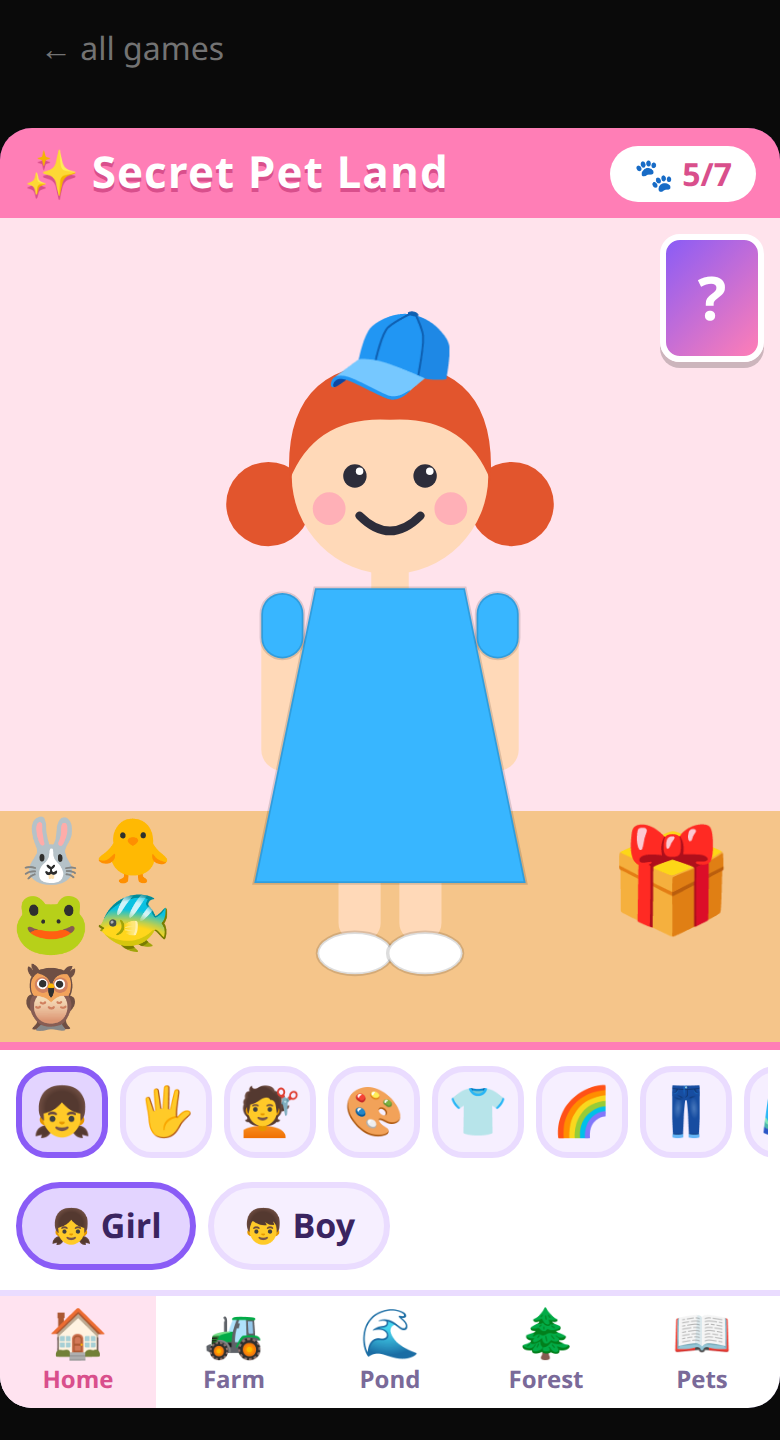
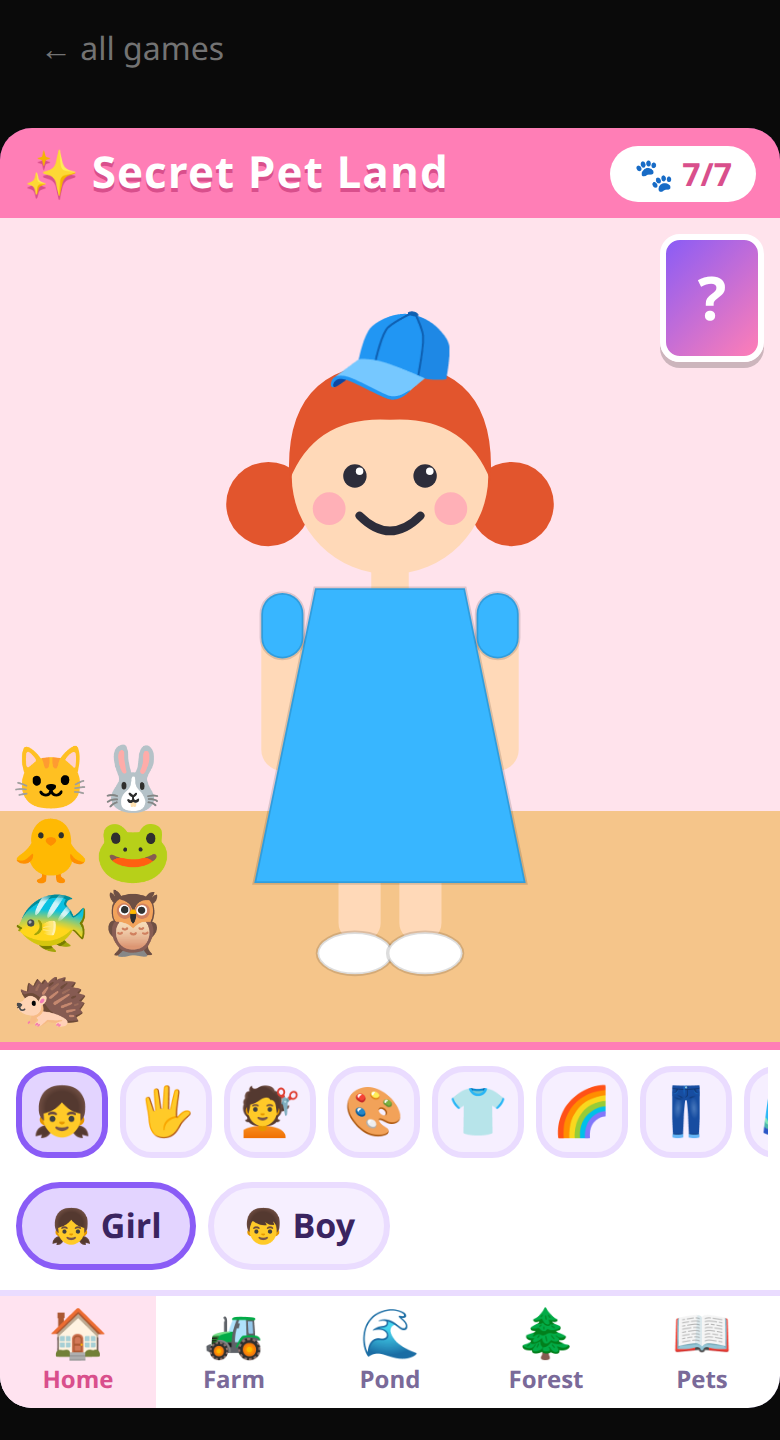
fix(secret-pet-land): start over keeps the outfit; rock wobbles each tap

Changed region(s): [[0.0, 0.5, 0.2154, 0.7188], [0.7692, 0.5625, 0.9538, 0.6562], [0.8615, 0.0938, 0.8923, 0.125]]

diff --git a/src/components/secret-pet-land/forest.tsx b/src/components/secret-pet-land/forest.tsx
@@ -9,7 +9,7 @@ function Tree({ world, onTap }: SceneProps) {
   const owl = hasPet(world, 'owl');
   return (
     <div className="pointer-events-none absolute top-[10%] left-[8%] h-[66%] w-[44%]">
-      <div className="absolute inset-[0_0_42%_0] rounded-full bg-[#3c9a4a] shadow-[inset_-12px_-12px_0_#2f7f3c]" />
+      <div className="absolute inset-[0_0_42%_0] rounded-[50%] bg-[#3c9a4a] shadow-[inset_-12px_-12px_0_#2f7f3c]" />
       <div className="absolute top-[48%] bottom-0 left-[34%] w-[32%] rounded-lg bg-[#8a5a2b]">
         <button
           type="button"
@@ -65,7 +65,7 @@ export function ForestScene(props: SceneProps) {
         y={88}
         label="Log"
         onTap={() => onTap('log')}
-        className="h-[9%] w-[38%] rounded-[30px] border-[3px] border-[#6f4a22] bg-[#9b6a35] after:absolute after:top-[12%] after:right-[3%] after:bottom-[12%] after:w-[16%] after:rounded-full after:bg-[#3a2410]"
+        className="h-[9%] w-[38%] rounded-[30px] border-[3px] border-[#6f4a22] bg-[#9b6a35] after:absolute after:top-[12%] after:right-[3%] after:bottom-[12%] after:w-[16%] after:rounded-[50%] after:bg-[#3a2410]"
       />
       {hasPet(world, 'hedgehog') && <Deco x={68} y={88} emoji="🦔" size="pet" />}
     </div>

diff --git a/src/lib/secret-pet-land-puzzles.test.ts b/src/lib/secret-pet-land-puzzles.test.ts
@@ -156,11 +156,12 @@ describe('clues and reset', () => {
     expect(clueFor(play(ROUTES.kitten).world, 'home')).toMatch(/No more secrets/);
   });
 
-  it('start over clears pets, puzzles, hand and look', () => {
-    const { world } = play([...ROUTES.kitten, 'sun', 'basket']);
+  it('start over clears pets, puzzles and hand but keeps the look', () => {
+    const look = { ...createWorld().look, hat: 3 };
+    const { world } = play([...ROUTES.kitten, 'sun', 'basket'], createWorld(look));
     expect(world.found).toHaveLength(1);
-    const fresh = resetWorld();
-    expect(fresh).toEqual(createWorld());
+    const fresh = resetWorld(world);
+    expect(fresh).toEqual(createWorld(look));
     expect(fresh.found).toEqual([]);
     expect(fresh.puzzles.night).toBe(false);
   });

diff --git a/src/components/secret-pet-land/farm-pond.tsx b/src/components/secret-pet-land/farm-pond.tsx
@@ -9,14 +9,14 @@ export type SceneProps = { world: World; onTap: (target: Target, pad?: PadSize) 
 const SOIL = ['', '🌱', '🥬'];
 
 function Rock({ world, onTap }: SceneProps) {
-  const taps = world.puzzles.rockTaps.length;
+  const taps = world.puzzles.rockTaps;
   return (
     <Spot x={28} y={84} label="Rock" onTap={() => onTap('rock')} className="h-[12%] w-[26%]">
       <span
-        key={taps}
+        key={taps.at(-1) ?? 0}
         className={cn(
           'h-full w-full rounded-[48%_52%_40%_45%/60%_62%_38%_40%] border-[3px] border-[#6d7282] bg-[radial-gradient(circle_at_35%_30%,#c9ccd6,#8a8f9f)]',
-          taps > 0 && 'animate-spl-wobble'
+          taps.length > 0 && 'animate-spl-wobble'
         )}
       />
     </Spot>

diff --git a/src/lib/secret-pet-land-world.ts b/src/lib/secret-pet-land-world.ts
@@ -49,8 +49,8 @@ export const createWorld = (look: Look = DEFAULT_LOOK, found: PetId[] = []): Wor
   puzzles: freshPuzzles(),
 });
 
-/** Start over keeps nothing, not even the outfit. */
-export const resetWorld = (): World => createWorld();
+/** Start over forgets the pets and puzzles but keeps the outfit. */
+export const resetWorld = (world: World): World => createWorld(world.look);
 
 export const hasPet = (world: World, id: PetId) => world.found.includes(id);
 export const allFound = (world: World) => world.found.length >= PET_COUNT;

diff --git a/src/components/secret-pet-land/use-pet-land.ts b/src/components/secret-pet-land/use-pet-land.ts
@@ -74,7 +74,7 @@ export function usePetLand(initial: World) {
 
   const reset = () => {
     if (!resetArmed) return setResetArmed(true);
-    commit(resetWorld());
+    commit(resetWorld(world));
     closeOverlay();
   };
 
